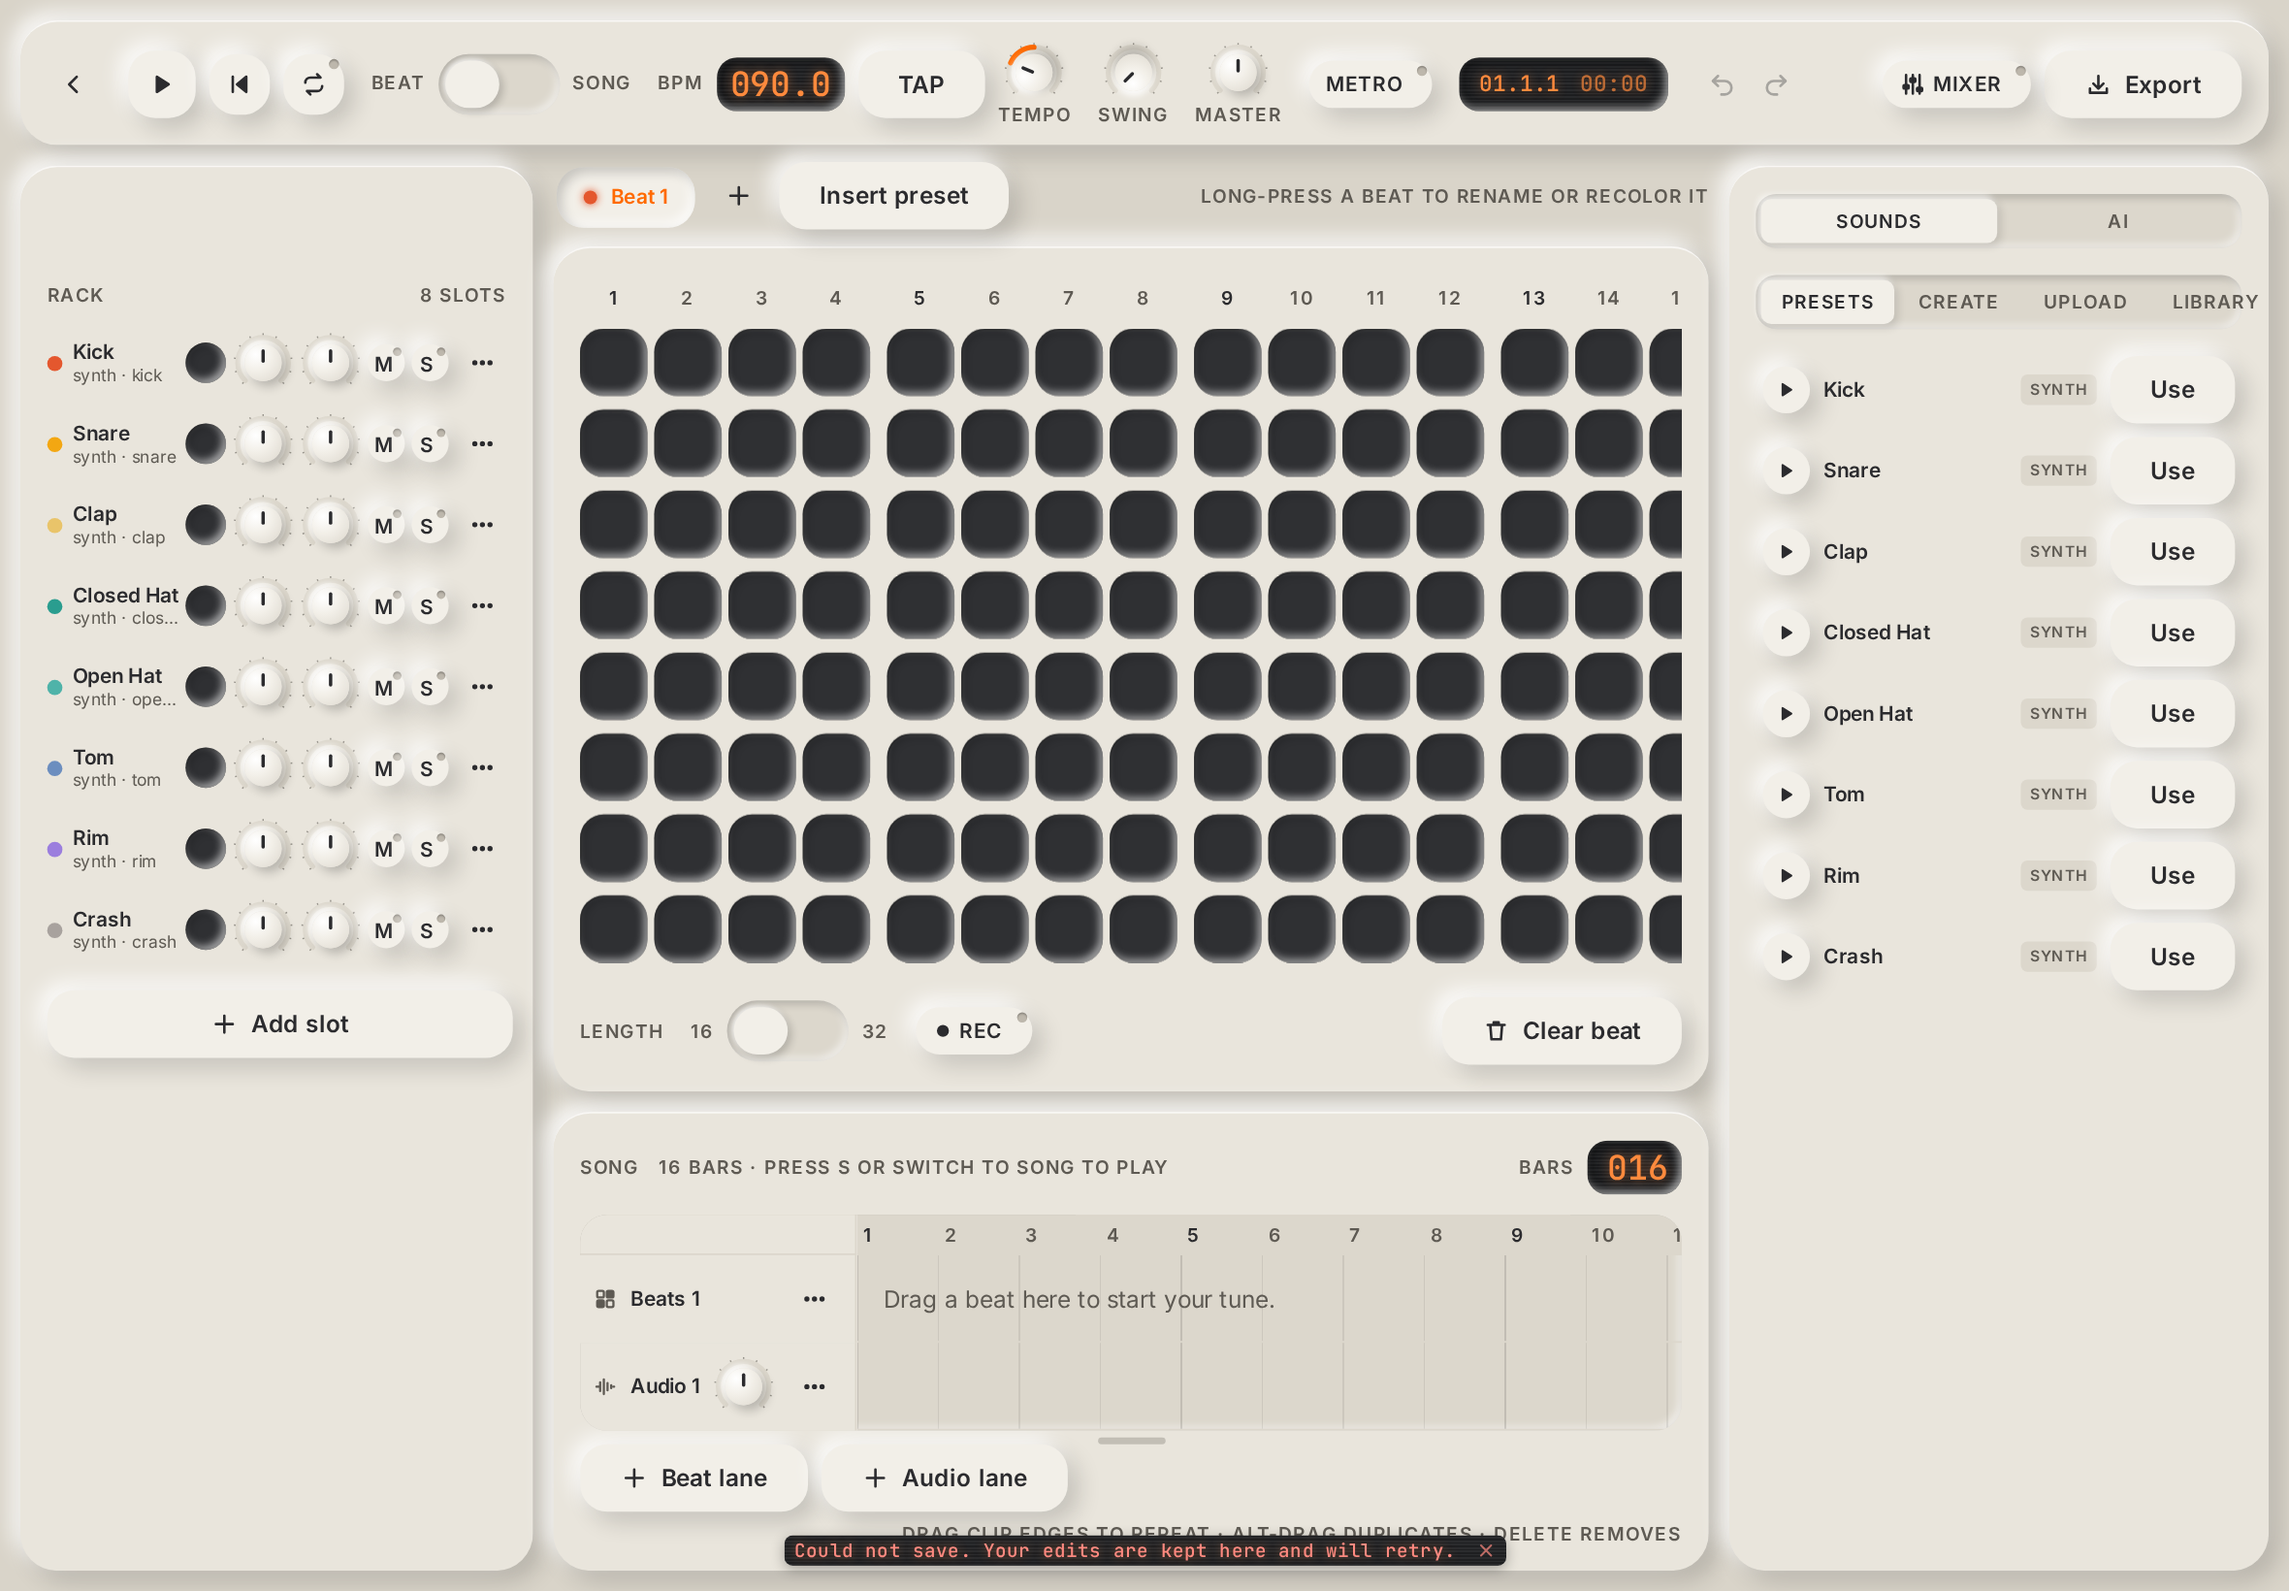
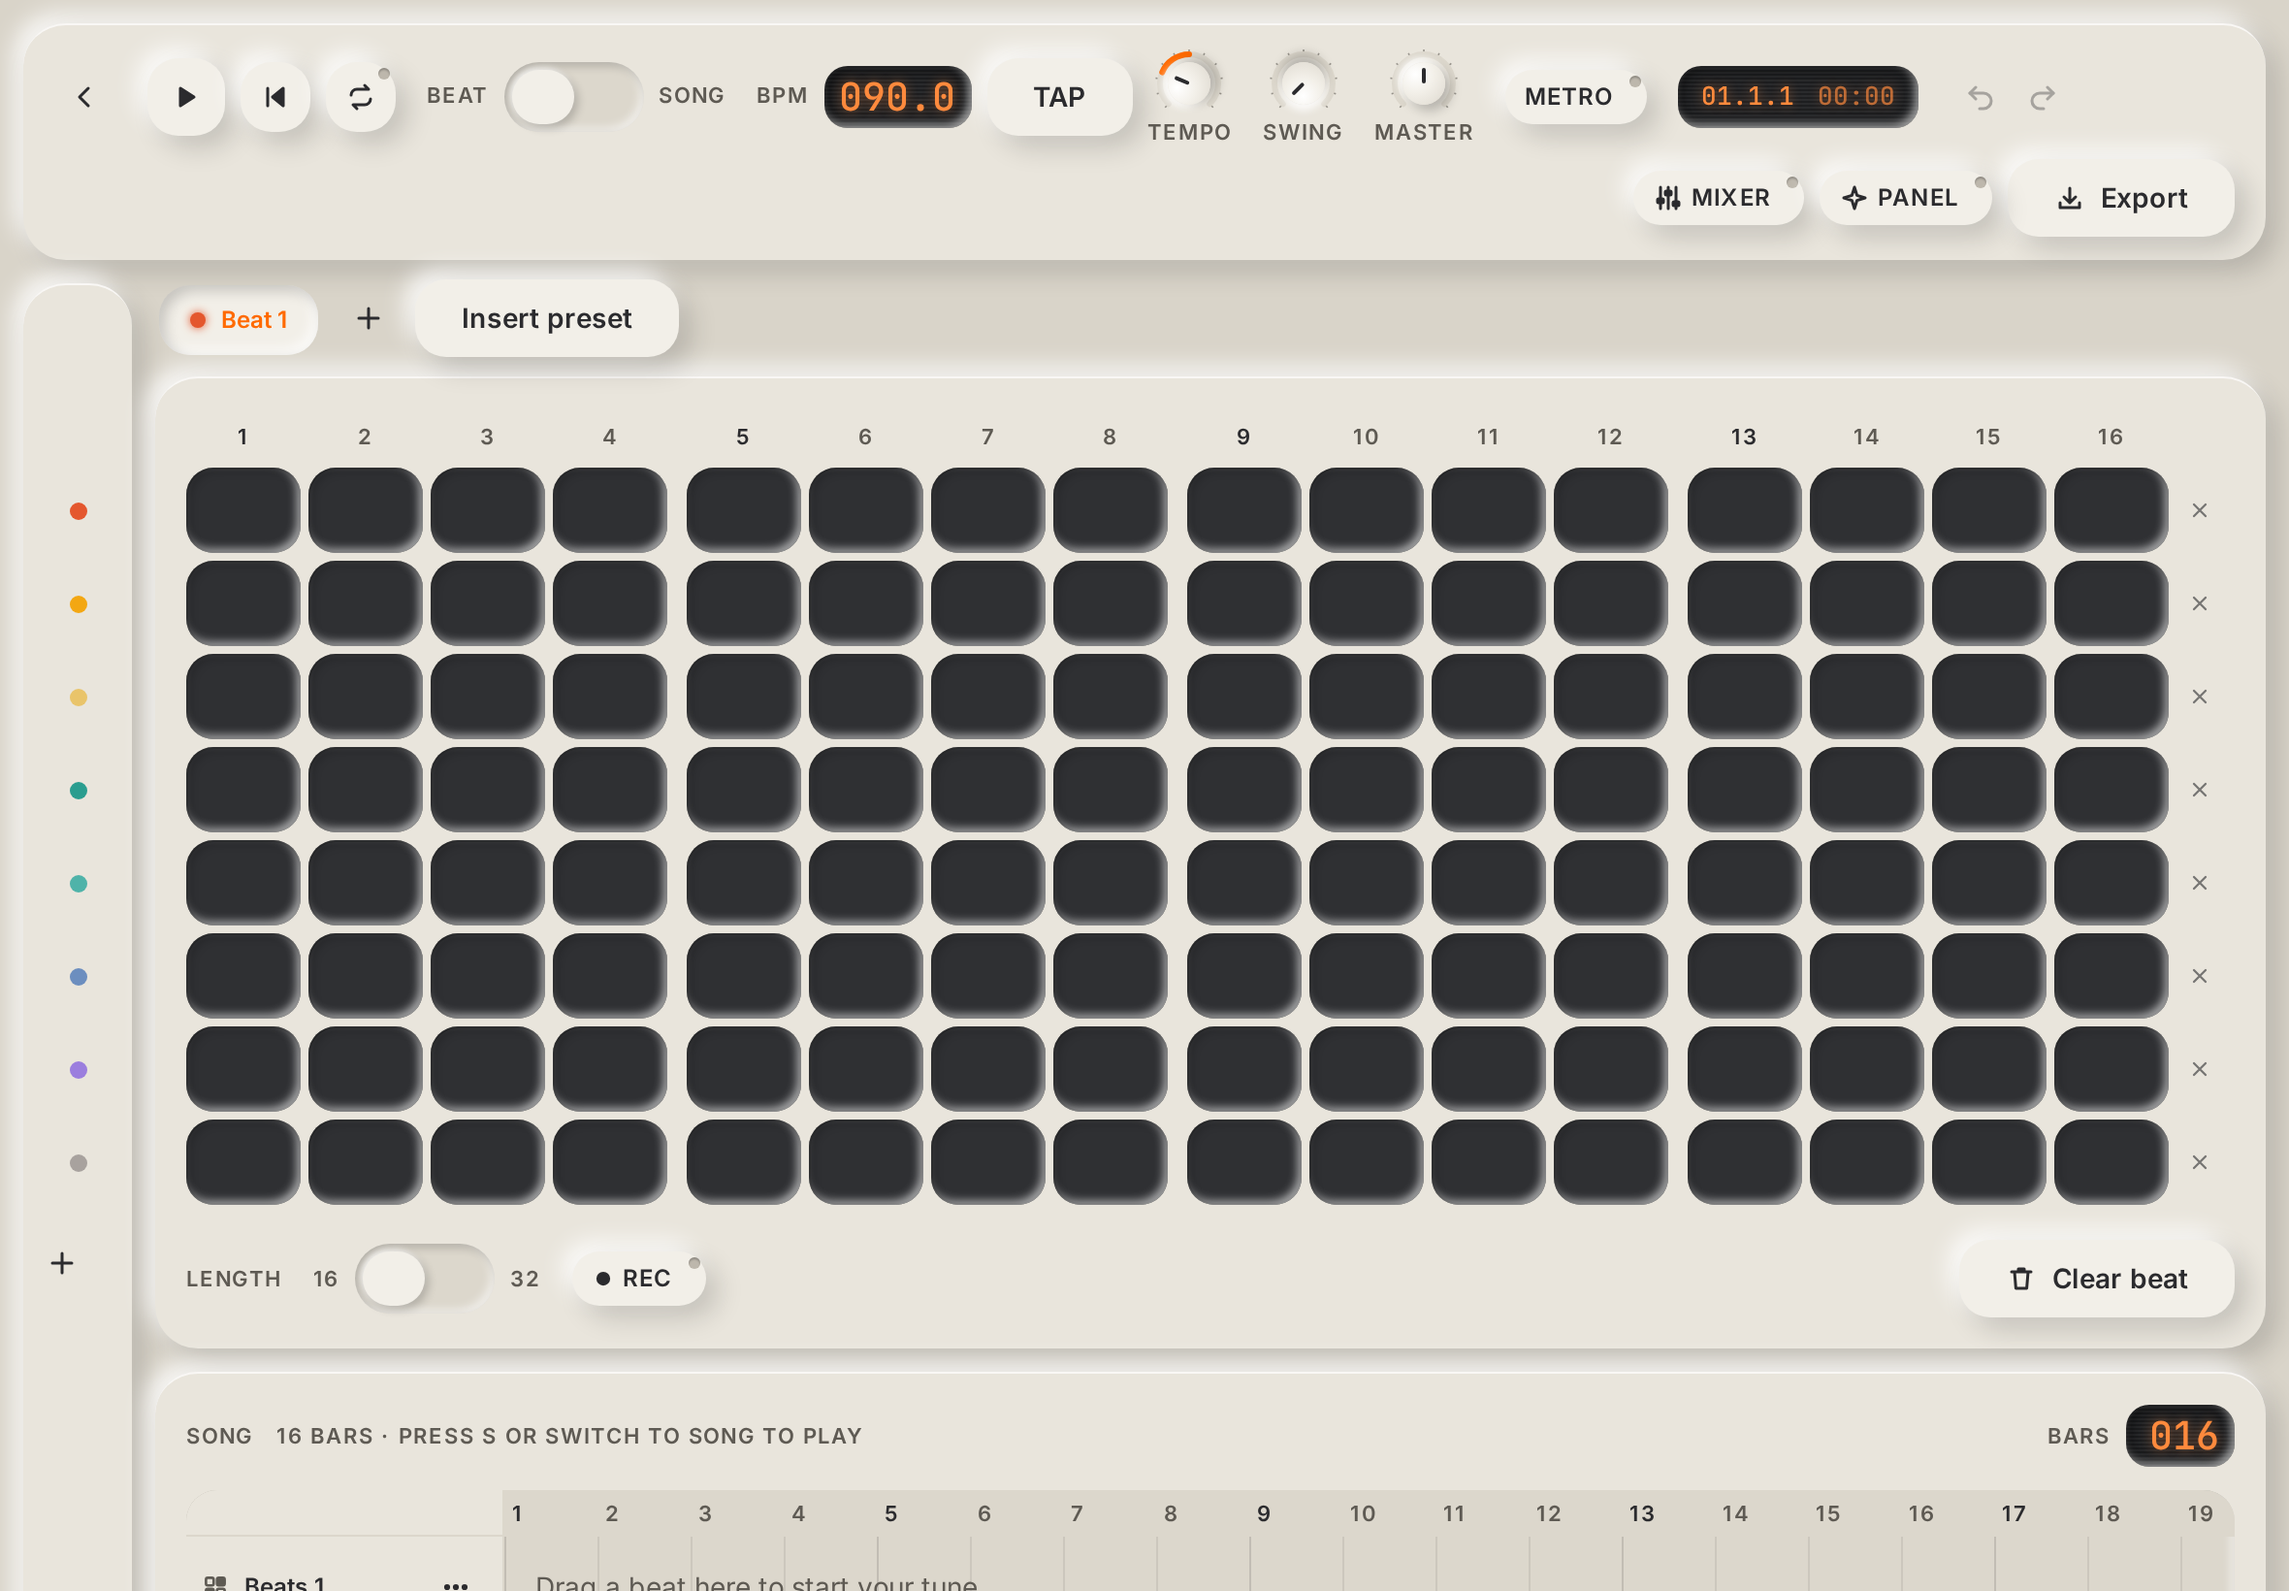
fix(t_0d35129e): suppress no-API save toast on the static deployment; kid-friendly Song play-mode hint
- autosave: api_unavailable / bare-404 (no API by design) no longer raise the red
  'Could not save' toast; real API errors still toast
- Song: 'press S or switch to SONG' -> 'switch the play mode to SONG'

diff --git a/src/api/autosave.ts b/src/api/autosave.ts
@@ -1,3 +1,4 @@
+import { ApiError } from './client';
 import { navigate } from '../router';
 import { useUi } from '../store/ui';
 import { useWorkspace } from '../store/workspace';
@@ -58,7 +59,12 @@ export async function flush(): Promise<void> {
   } catch (err) {
     const msg = err instanceof Error ? err.message : 'Save failed';
     setStatus('error', `Not saved: ${msg}`);
-    if (Date.now() - lastErrorToast > 60_000) {
+    // Kids reskin (t_0d35129e): this static deployment has no API by design — every save
+    // "fails" (Vite dev: api_unavailable; nginx: bare 404 with no JSON body), so the red
+    // toast would nag on load and every edit. A real API's 404 carries a JSON error code
+    // and still toasts for producers.
+    const noApi = err instanceof ApiError && (err.code === 'api_unavailable' || err.code === 'http_404');
+    if (!noApi && Date.now() - lastErrorToast > 60_000) {
       lastErrorToast = Date.now();
       useUi.getState().toast('Could not save. Your edits are kept here and will retry.', 'error');
     }

diff --git a/src/screens/workspace/Song.tsx b/src/screens/workspace/Song.tsx
@@ -160,7 +160,7 @@ export function Song() {
     <section aria-label="Song" className="panel flex min-w-0 flex-col p-s4">
       <div className="mb-s3 flex flex-wrap items-center gap-s3">
         <h2 className="label text-ink">Song</h2>
-        <span className="label">{w.songBars} bars · {w.playMode === 'SONG' ? 'playing the timeline' : 'press S or switch to SONG to play'}</span>
+        <span className="label">{w.songBars} bars · {w.playMode === 'SONG' ? 'playing the timeline' : 'switch the play mode to SONG to play'}</span>
         <div className="ml-auto flex items-center gap-s2">
           <span className="label">Bars</span>
           <Lcd label="Song length in bars" width={56} value={w.songBars} min={4} max={SONG_BARS_MAX} step={1} format={(v) => String(v).padStart(3, '0')} onChange={(v) => actions.setSongBars(v)} />
